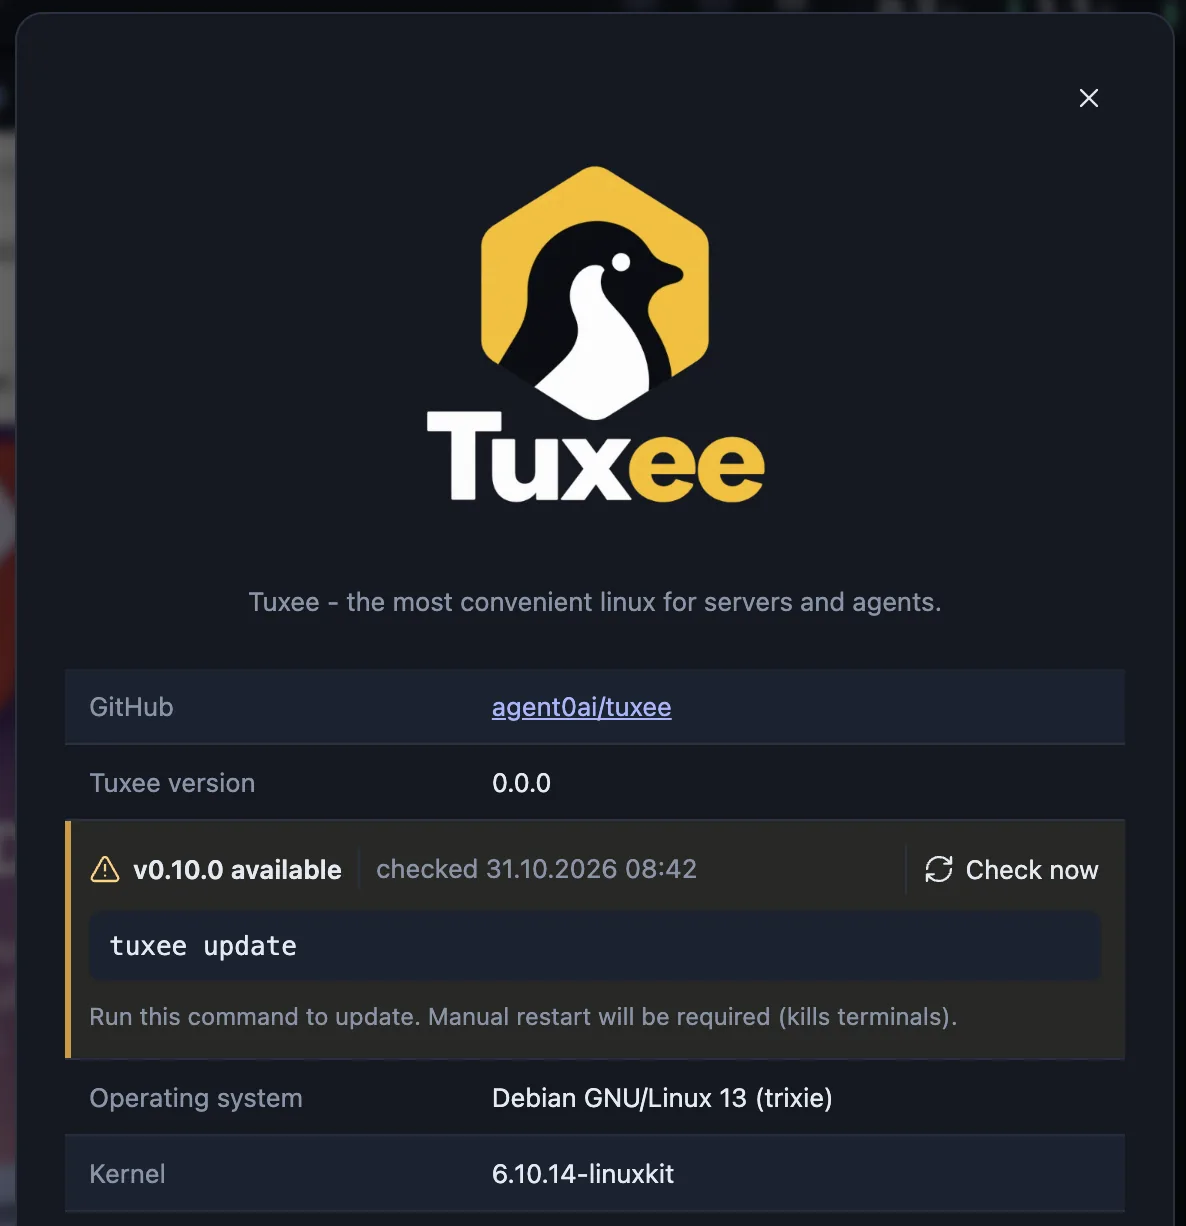
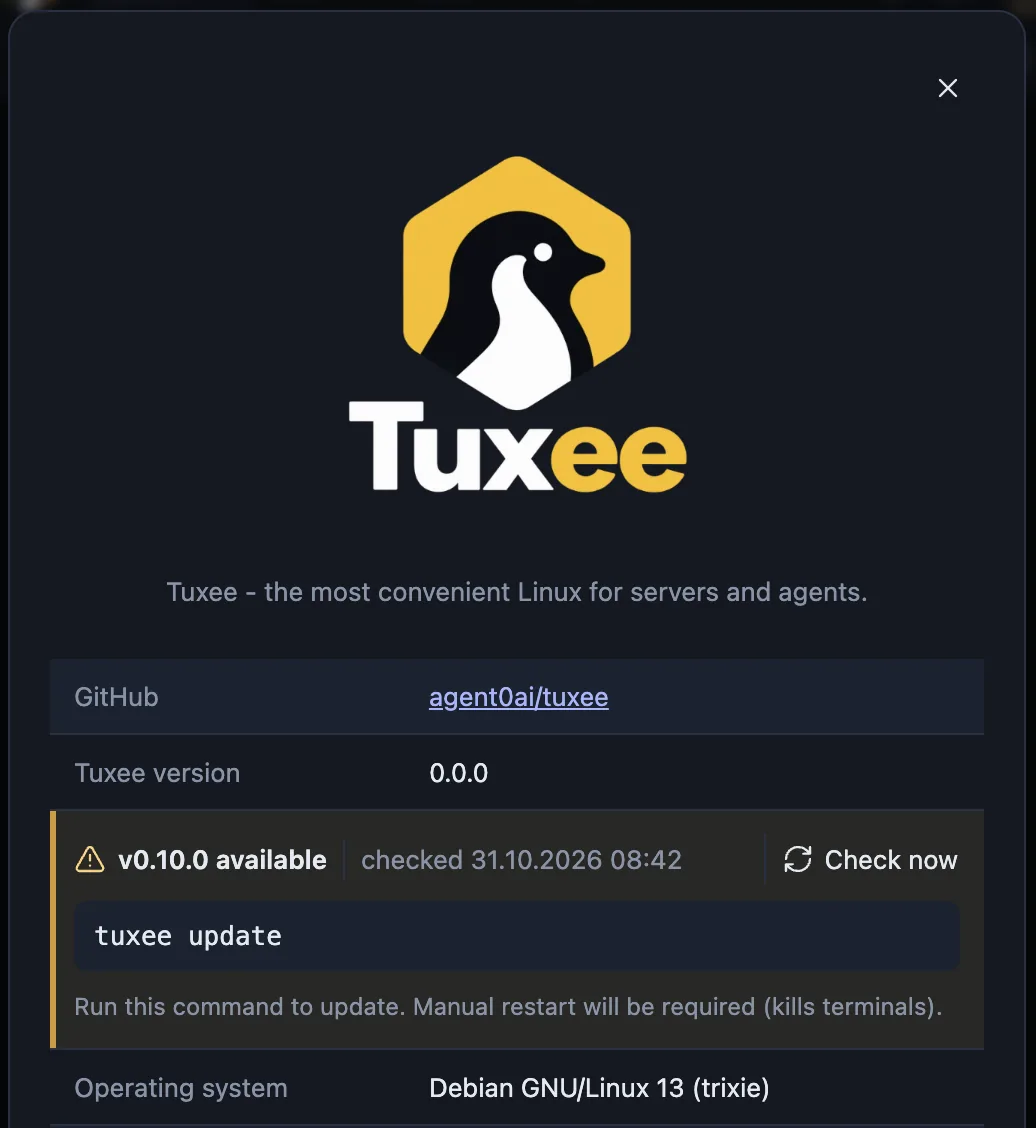
Capitalize Linux and refresh the Updates guide screenshot

diff --git a/web/how-to.ts b/web/how-to.ts
@@ -234,7 +234,7 @@ export function openHowTo(savedShortcuts?: ShortcutBindings) {
             const updates = el('section', 'howto-tip-updates'), updatesCopy = el('div', 'howto-detail');
             updatesCopy.append(el('h4', '', t('howto.updatesTitle')),
                 el('p', '', t('howto.updatesBody', { about: t('app.about') })), shortcuts('app.about'));
-            updates.append(updatesCopy, screenshot(updatesImage, t('howto.updatesScreenshot'), 1186, 1226));
+            updates.append(updatesCopy, screenshot(updatesImage, t('howto.updatesScreenshot'), 1036, 1128));
             const keyboard = el('section', 'howto-detail howto-tip-shortcuts'), keyboardBody = el('p');
             const shortcutControl = el('span', 'howto-inline-control');
             shortcutControl.append(icon('Keyboard'), el('span', '', t('shortcuts.title')));

diff --git a/cmd/tuxee/main.go b/cmd/tuxee/main.go
@@ -83,7 +83,7 @@ func main() {
 	}
 }
 func help() {
-	fmt.Println(`Tuxee - the most convenient linux for servers and agents.
+	fmt.Println(`Tuxee - the most convenient Linux for servers and agents.
 
   tuxee serve [options]                   Run in the foreground
   tuxee healthcheck [serve options]       Probe the configured local listener

diff --git a/web/AGENTS.md b/web/AGENTS.md
@@ -78,7 +78,7 @@ Settings offers two native Terminal background pickers, Dark on the left and Lig
 
 Settings Connection uses `location.protocol` for the browser's transport, never `isSecureContext` (HTTP localhost can be a secure context). HTTP always shows Plain HTTP without certificate details. HTTPS shows Encrypted HTTPS unless `/api/tls` identifies a managed local/public certificate for the request. Only then show certificate details/errors, with the CA download link only for local certificates. A TLS-terminating proxy's HTTP backend must not make the browser claim Plain HTTP or offer Tuxee's unused local CA.
 
-The first action in the account menu is How to, opening `how-to.ts`’s six-page guide: Introduction, Desktops, Terminals, Files, GUI Apps and Tips. Open it automatically after authenticated workspace rendering when `howToSeen` is absent/false; save `howToSeen` only after the user closes it (the header X or Escape), with failed-save rollback and normal error reporting. Showing it, reloading or leaving the page never sets the flag; existing accounts without a true flag also see it. Keep manual reopening available, starting at Introduction. Use the shared modal, theme-specific vertical logo on the left of the introduction copy (stacked on phones), local screenshots and unified catalogs. Replace the visible modal title and ball with compact pagination in the header, aligned vertically with Close. Keep the dots centered in the header with fixed hit targets across every page; labels grow outward from the dots with 12px gaps on desktop. Reserve all translated page-label sizes once through intrinsic grid sizing, so label changes never move the dots horizontally or vertically. Shift the group toward the start edge only when needed to clear Close, and mirror this for RTL. On phones keep the dots centered with the same Close clearance and place the arrow labels beneath. Keep 16px adjacent-page names and clickable solid dots: 8px for other pages and 16px for the selected page, without a second ring. Hide and disable Back on the first page and Forward on the last page, with stable dot positions. Forward only changes pages and never closes the guide, so rapid repeat clicks at the end cannot dismiss it; retain the header X and Escape for closing. The introduction lists browser-based Linux control, persistent terminals across logout, a minimal headless Linux with Tuxee’s desktop experience, and that Tuxee is free/open source with no data collection or calling home. Use larger 16px chapter buttons for all five topics, including Tips, in one column on phones. Omit icon/page-number rows from content. Guide introductions use the available content width. The Desktops page introduces persistent work grouped by purpose/project, explains adding terminal/file components through top-bar controls or desktop right-clicks, and shows those icons above the real desktop screenshot including the top-bar controls. Follow with grid arrangement and its dragging screenshot, Auto layout, then names/default directories and the menu screenshot. The arrangement section also explains dragging windows between desktops and right-clicking window headers for more options. Explain automatic rules prioritizing terminals, files or balance; render the existing Auto layout icon/label inline in the localized top-bar instruction, without translating HTML. Keep new/close-desktop keyboard hints inside the name/default-directory description block beside the screenshot. Keep only the compressed `howto-desktop*.webp` assets in this subtree; import them through the existing hashed-file build and request them only when their guide page opens, with lazy loading, asynchronous decoding and localized alt text. Keyboard hints between relevant sections use a purple Keyboard icon and muted text without a background box. Align labels and bindings in borderless table columns, preserving the existing spacing. Resolve action labels, both binding slots and platform key names through `shortcuts.ts` using current saved settings; omit disabled bindings and never hardcode shortcut text. Tips starts with a Customization section explaining how Server name and Color marker in Settings distinguish managed servers, followed by the supplied 1086×242 screenshot and the current Settings shortcut. Use a separate lazy, hashed `howto-tips-customization.webp` with localized alt text. Follow with Process Manager as the second section: text on the left and the supplied 1834×1624 screenshot on the right, mirrored for RTL and stacked copy-first on phones. Explain opening Resource monitor from the top-bar resource widget or user menu, selecting Processes, and inspecting/terminating individual processes when the system is overloaded or terminals stop responding. Use the current resource-monitor shortcut and translated UI labels in the description. Keep its optimized screenshot in a separate lazy, hashed `howto-tips-processes.webp` with localized alt text. Updates is the third tip, with the supplied 1186×1226 About screenshot on the left and copy on the right, mirrored for RTL and stacked copy-first on phones. Explain checking updates from About, accessible through the user menu or the top-bar Tuxee logo; use the translated About label and current About shortcut. Serve the optimized `howto-tips-updates.webp` separately with lazy hashed URLs and localized alt text. All Tips images together stay below 200 KiB. End Tips with Keyboard shortcuts: a text-only section explaining customization through the user menu, with its existing Keyboard icon and translated Shortcuts label inline in the sentence using the same localized-control placeholder pattern as Auto layout. Include the current Shortcuts binding; add no screenshot. Remove the previous layout/files/session cards, anchor sections and synthetic illustrations; keep fitting Tips content free of unnecessary scrolling. Home/End inside content retain native scrolling. Size the guide through the available modal height with flex layout; only the active page scrolls, with no outer/body scrollbar or unnecessary scrolling on fitting pages. Keep the header and pagination fixed, cancel superseded slides, use the desktop transition’s 220 ms/cubic-bezier(.2,.7,.2,1), honor reduced motion and mirror navigation for RTL. Support arrows, Home/End and the normal Escape/close lifecycle without changing mounted workspaces or terminals.
+The first action in the account menu is How to, opening `how-to.ts`’s six-page guide: Introduction, Desktops, Terminals, Files, GUI Apps and Tips. Open it automatically after authenticated workspace rendering when `howToSeen` is absent/false; save `howToSeen` only after the user closes it (the header X or Escape), with failed-save rollback and normal error reporting. Showing it, reloading or leaving the page never sets the flag; existing accounts without a true flag also see it. Keep manual reopening available, starting at Introduction. Use the shared modal, theme-specific vertical logo on the left of the introduction copy (stacked on phones), local screenshots and unified catalogs. Replace the visible modal title and ball with compact pagination in the header, aligned vertically with Close. Keep the dots centered in the header with fixed hit targets across every page; labels grow outward from the dots with 12px gaps on desktop. Reserve all translated page-label sizes once through intrinsic grid sizing, so label changes never move the dots horizontally or vertically. Shift the group toward the start edge only when needed to clear Close, and mirror this for RTL. On phones keep the dots centered with the same Close clearance and place the arrow labels beneath. Keep 16px adjacent-page names and clickable solid dots: 8px for other pages and 16px for the selected page, without a second ring. Hide and disable Back on the first page and Forward on the last page, with stable dot positions. Forward only changes pages and never closes the guide, so rapid repeat clicks at the end cannot dismiss it; retain the header X and Escape for closing. The introduction lists browser-based Linux control, persistent terminals across logout, a minimal headless Linux with Tuxee’s desktop experience, and that Tuxee is free/open source with no data collection or calling home. Use larger 16px chapter buttons for all five topics, including Tips, in one column on phones. Omit icon/page-number rows from content. Guide introductions use the available content width. The Desktops page introduces persistent work grouped by purpose/project, explains adding terminal/file components through top-bar controls or desktop right-clicks, and shows those icons above the real desktop screenshot including the top-bar controls. Follow with grid arrangement and its dragging screenshot, Auto layout, then names/default directories and the menu screenshot. The arrangement section also explains dragging windows between desktops and right-clicking window headers for more options. Explain automatic rules prioritizing terminals, files or balance; render the existing Auto layout icon/label inline in the localized top-bar instruction, without translating HTML. Keep new/close-desktop keyboard hints inside the name/default-directory description block beside the screenshot. Keep only the compressed `howto-desktop*.webp` assets in this subtree; import them through the existing hashed-file build and request them only when their guide page opens, with lazy loading, asynchronous decoding and localized alt text. Keyboard hints between relevant sections use a purple Keyboard icon and muted text without a background box. Align labels and bindings in borderless table columns, preserving the existing spacing. Resolve action labels, both binding slots and platform key names through `shortcuts.ts` using current saved settings; omit disabled bindings and never hardcode shortcut text. Tips starts with a Customization section explaining how Server name and Color marker in Settings distinguish managed servers, followed by the supplied 1086×242 screenshot and the current Settings shortcut. Use a separate lazy, hashed `howto-tips-customization.webp` with localized alt text. Follow with Process Manager as the second section: text on the left and the supplied 1834×1624 screenshot on the right, mirrored for RTL and stacked copy-first on phones. Explain opening Resource monitor from the top-bar resource widget or user menu, selecting Processes, and inspecting/terminating individual processes when the system is overloaded or terminals stop responding. Use the current resource-monitor shortcut and translated UI labels in the description. Keep its optimized screenshot in a separate lazy, hashed `howto-tips-processes.webp` with localized alt text. Updates is the third tip, with the supplied 1036×1128 About screenshot on the left and copy on the right, mirrored for RTL and stacked copy-first on phones. Explain checking updates from About, accessible through the user menu or the top-bar Tuxee logo; use the translated About label and current About shortcut. Serve the optimized `howto-tips-updates.webp` separately with lazy hashed URLs and localized alt text. All Tips images together stay below 200 KiB. End Tips with Keyboard shortcuts: a text-only section explaining customization through the user menu, with its existing Keyboard icon and translated Shortcuts label inline in the sentence using the same localized-control placeholder pattern as Auto layout. Include the current Shortcuts binding; add no screenshot. Remove the previous layout/files/session cards, anchor sections and synthetic illustrations; keep fitting Tips content free of unnecessary scrolling. Home/End inside content retain native scrolling. Size the guide through the available modal height with flex layout; only the active page scrolls, with no outer/body scrollbar or unnecessary scrolling on fitting pages. Keep the header and pagination fixed, cancel superseded slides, use the desktop transition’s 220 ms/cubic-bezier(.2,.7,.2,1), honor reduced motion and mirror navigation for RTL. Support arrows, Home/End and the normal Escape/close lifecycle without changing mounted workspaces or terminals.
 
 The Terminals guide covers persistence across logout/disconnection and AI-agent work, saved Post mortem transcripts after terminal death/accidental closure/server restart, retained terminals, the input drawer, text snapshots, files/clipboard and Settings. Below the wide Post mortem screenshot, explain opening Retained terminals from the user menu to find lost or closed terminals, with its screenshot on the right at most 300px wide. Place the drawer screenshot on the left and the text-view screenshot on the right, each at most 360px wide, alternating from the retained-terminals image on the right. Stack copy before images on phones. Keep the main, archive and files screenshots wide. Use the supplied screenshots converted to optimized, full-resolution `howto-terminal-*.webp` assets (under 320 KiB combined), with lazy hashed URLs and localized alt text. Use current action bindings and the actual input-drawer hint. Distinguish existing Tuxee paths from computer files/screenshots uploaded to `~/uploads`; inserting paths never submits them. Omit the read-only reminder and the instruction to submit input when ready.
 

diff --git a/tests/AGENTS.md b/tests/AGENTS.md
@@ -18,7 +18,7 @@ Keep implementation and checks small and complete. Pure module fixtures that ass
 
 # Verification
 
-- `npm run test:howto`: isolated built server and two disposable Linux accounts. Verify new/existing accounts without a true flag see the guide, reload before closing keeps it unseen, header X/Escape dismissal persist the private user-owned seen flag, hidden and disabled boundary navigation across all catalogs/viewports, repeated forward clicks at the last page leaving the guide open and unseen, reload/logout/new-browser/server-restart persistence, manual first-menu access, six pages, four introduction points and five enlarged topic buttons, compact header navigation without a visible title, fixed centered dot hit targets across all page labels/viewports/catalogs, vertical alignment and clearance from Close, 8/16px solid dots without rings, no page-number row, no outer vertical overflow, fitting short pages, standalone hashed/cached WebP screenshots fetched only when their page opens (Terminals under 320 KiB combined; other pages under 200 KiB), six supplied terminal screenshots with original dimensions, revised transcript/retained copy, removed read-only/submit reminders, bounded side-by-side retained/drawer/text rows stacking on phones, and its persistence/archive/input/text/files/settings sections, localized grid copy and inline Auto layout control, keyboard hints reflecting defaults/custom sequences/alternate slots/disabled actions, Customization tip with the supplied 1086×242 lazy WebP and current Settings shortcut, followed by Process Manager with the supplied 1834×1624 lazy WebP, current Resource monitor shortcut and two-column copy/image layout, followed by Updates with the supplied 1186×1226 lazy WebP on the left, About access guidance and current About shortcut; both paired sections mirror for RTL and stack copy-first on phones; a final text-only Keyboard shortcuts section with the localized inline Keyboard/Shortcuts menu control, no image or unresolved placeholder, and current Shortcuts binding; absent old Tips cards/illustrations, scrolling confined to the active page and fixed pagination, rapid slides, keyboard/RTL/reduced motion, unchanged terminal availability, failed-save retry and all built-in catalogs in both themes at 320px and on both sides of the 600px navigation breakpoint. Wait for the seen-flag save response before checking its API/disk persistence. Capture desktop/mobile/short-screen `howto-*.png`. Run sequentially with account/browser suites. Other application suites use `app-page.mjs` to click the real close control as soon as onboarding appears, including before raw keyboard actions; the How to suite uses ordinary Playwright pages.
+- `npm run test:howto`: isolated built server and two disposable Linux accounts. Verify new/existing accounts without a true flag see the guide, reload before closing keeps it unseen, header X/Escape dismissal persist the private user-owned seen flag, hidden and disabled boundary navigation across all catalogs/viewports, repeated forward clicks at the last page leaving the guide open and unseen, reload/logout/new-browser/server-restart persistence, manual first-menu access, six pages, four introduction points and five enlarged topic buttons, compact header navigation without a visible title, fixed centered dot hit targets across all page labels/viewports/catalogs, vertical alignment and clearance from Close, 8/16px solid dots without rings, no page-number row, no outer vertical overflow, fitting short pages, standalone hashed/cached WebP screenshots fetched only when their page opens (Terminals under 320 KiB combined; other pages under 200 KiB), six supplied terminal screenshots with original dimensions, revised transcript/retained copy, removed read-only/submit reminders, bounded side-by-side retained/drawer/text rows stacking on phones, and its persistence/archive/input/text/files/settings sections, localized grid copy and inline Auto layout control, keyboard hints reflecting defaults/custom sequences/alternate slots/disabled actions, Customization tip with the supplied 1086×242 lazy WebP and current Settings shortcut, followed by Process Manager with the supplied 1834×1624 lazy WebP, current Resource monitor shortcut and two-column copy/image layout, followed by Updates with the supplied 1036×1128 lazy WebP on the left, About access guidance and current About shortcut; both paired sections mirror for RTL and stack copy-first on phones; a final text-only Keyboard shortcuts section with the localized inline Keyboard/Shortcuts menu control, no image or unresolved placeholder, and current Shortcuts binding; absent old Tips cards/illustrations, scrolling confined to the active page and fixed pagination, rapid slides, keyboard/RTL/reduced motion, unchanged terminal availability, failed-save retry and all built-in catalogs in both themes at 320px and on both sides of the 600px navigation breakpoint. Wait for the seen-flag save response before checking its API/disk persistence. Capture desktop/mobile/short-screen `howto-*.png`. Run sequentially with account/browser suites. Other application suites use `app-page.mjs` to click the real close control as soon as onboarding appears, including before raw keyboard actions; the How to suite uses ordinary Playwright pages.
 
 - The How to Files checks cover four deferred hashed WebP assets, arrow/F2/Enter navigation hints, Ctrl/Cmd-click and Shift-click selection hints, select-all/editor shortcuts on Linux and emulated macOS (with Ctrl-only drag copying), revised transfer copy, the supplied 1356×820 terminal screenshot, terminal pin-routing guidance, scrollable screenshot sections and the existing all-catalog/theme/viewport bounds. `TUXEE_TEST_BINARY` selects an isolated built executable for `test:howto`; default is `bin/tuxee`.
 

diff --git a/AGENTS.md b/AGENTS.md
@@ -90,7 +90,7 @@ When the user requests a durable behavior change, record it here or in the relev
 - The frontend ships all dependencies locally. Production embeds application JavaScript and CSS in one index file, with separate source modules/styles for editing. Serve images and larger binary resources as separate local assets fetched only when needed; keep small interface SVGs inline and the required download worker separate. Use content-hashed asset URLs for cache busting across versions and keep the personalized index private/no-store and revalidate other unversioned resources.
 - Compact mode depends only on the viewport. Use click-position/anchored context menus, local component notifications, and three-dot tab overflow. File browsers have no embedded command terminal.
 - Keep the UI free of promotional/descriptive microcopy except the About tagline, the Default directory field subtitle and the How to guide. Panel edits preserve neighboring views; workspaces slide as full layouts. Closing a terminal panel terminates its process; workspace closure confirms and terminates every terminal in that workspace in the background.
-- Use the exact tagline `Tuxee - the most convenient linux for servers and agents.` in the README title, CLI help banner and English About subtitle below the logo; other UI languages translate the About tagline.
+- Use the exact tagline `Tuxee - the most convenient Linux for servers and agents.` in the README title, CLI help banner and English About subtitle below the logo; other UI languages translate the About tagline. Capitalize Linux in prose and translations, including inflected names; preserve required lowercase platform identifiers, filenames and paths.
 - Keep the root README ordered as the centered vertical logo, project title, short container/standalone introduction, Highlights, Quick start, Resources links, then Agent Zero credits/community links. Quick start recommends zero-configuration Docker first, with port mapping matching the image, browser/login details, password-change guidance and `ROOT_PASSWORD`; then show native installation and the manual-install link. Highlights uses an alternating image/text HTML table with descriptive titles and thumbnails linking to full images with `target="_blank"`, starting with the lightweight metrics infographic, then login. Use WebP for screenshots and lightly compressed JPG for the infographic. Keep only their optimized images and thumbnails in `.github/resources/screenshots/`; do not retain duplicate originals in `assets/`. Keep original logo artwork in `assets/`, detailed documentation in `docs/` and Docker support files in `docker/`. Keep build outputs, dependencies, local state and editor/OS clutter out of Git.
 
 - The README's centered vertical logo selects the transparent dark web asset for dark mode and the transparent light asset otherwise.

diff --git a/README.md b/README.md
@@ -5,7 +5,7 @@
   </picture>
 </p>
 
-# Tuxee - the most convenient linux for servers and agents.
+# Tuxee - the most convenient Linux for servers and agents.
 
 A tiny Debian Linux container with a superb web interface for files and <b>(persistent!)</b>
 terminals. Also available as a standalone web interface for existing Linux servers.
